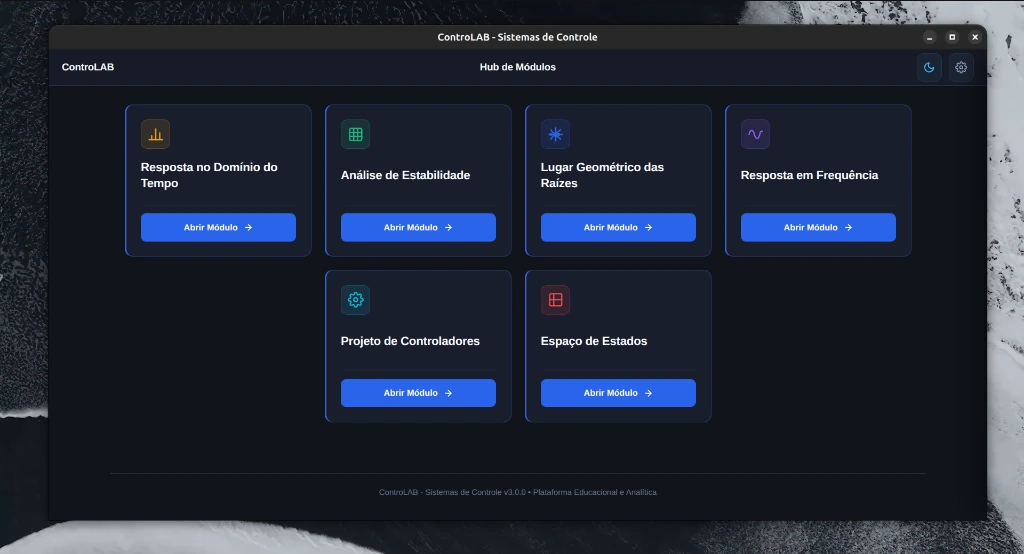
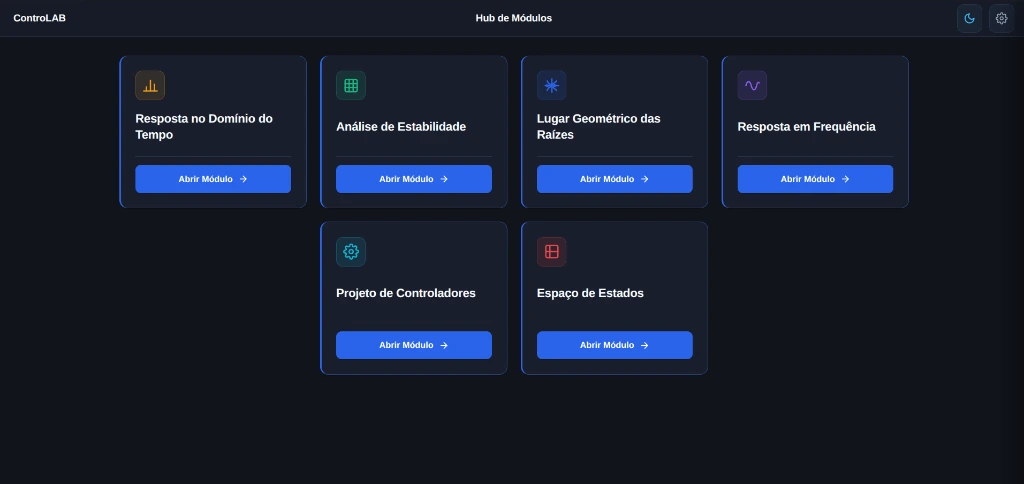
feat(ui): restaurar captura do hub e manter visao geral desktop [skip ci]

diff --git a/public/index.html b/public/index.html
@@ -123,8 +123,11 @@
             <div class="mockup-title">ControLAB — Suíte Integrada de Sistemas de Controle</div>
           </div>
           <div class="mockup-tab-bar" id="mockup-tabs" role="tablist">
-            <button type="button" class="mockup-tab active" data-mockup="hub" role="tab" aria-selected="true">
+            <button type="button" class="mockup-tab active" data-mockup="principal" role="tab" aria-selected="true">
               <span class="mockup-tab-dot"></span>
+              Visão Geral
+            </button>
+            <button type="button" class="mockup-tab" data-mockup="hub" role="tab" aria-selected="false">
               Hub Central
             </button>
             <button type="button" class="mockup-tab" data-mockup="time" role="tab" aria-selected="false">
@@ -145,7 +148,8 @@
           </div>
           <div class="mockup-body">
             <div class="mockup-screen-container">
-              <img id="mockup-img-hub" class="mockup-screen-img active" src="screenshots/hub-modulos.webp" alt="Interface ControLAB - Hub Central de Módulos" width="1024" height="554" fetchpriority="high">
+              <img id="mockup-img-principal" class="mockup-screen-img active" src="screenshots/principal.webp" alt="Interface ControLAB - Visão Geral Desktop" width="1024" height="554" fetchpriority="high">
+              <img id="mockup-img-hub" class="mockup-screen-img" src="screenshots/hub-modulos.webp" alt="Interface ControLAB - Hub Central de Módulos" width="1024" height="484" loading="lazy">
               <img id="mockup-img-time" class="mockup-screen-img" src="screenshots/resposta-tempo.webp" alt="Interface ControLAB - Resposta no Domínio do Tempo" width="1024" height="529" loading="lazy">
               <img id="mockup-img-lgr" class="mockup-screen-img" src="screenshots/lugar-das-raizes.webp" alt="Interface ControLAB - Lugar Geométrico das Raízes (LGR)" width="1024" height="529" loading="lazy">
               <img id="mockup-img-freq" class="mockup-screen-img" src="screenshots/resposta-frequencia.webp" alt="Interface ControLAB - Resposta em Frequência (Bode e Nyquist)" width="1024" height="529" loading="lazy">
@@ -155,7 +159,7 @@
             <div class="mockup-status-bar">
               <div class="mockup-status-info">
                 <span class="mockup-status-dot"></span>
-                <span id="mockup-caption-text" class="mockup-status-text">Hub Central: navegação rápida e unificada entre todos os módulos de controle</span>
+                <span id="mockup-caption-text" class="mockup-status-text">Visão Geral Desktop: ambiente integrado v3.0.0 com os 6 módulos em execução</span>
               </div>
               <span class="mockup-status-hint">Clique nas abas para alternar as telas</span>
             </div>
@@ -457,10 +461,31 @@
       </div>
 
       <div class="interface-gallery-grid">
-        <!-- Card 1: Hub Central -->
+        <!-- Card 1: Visão Geral Desktop (Tela Principal) -->
+        <article class="interface-gallery-card" data-mockup-trigger="principal">
+          <div class="gallery-card-img-wrap">
+            <img src="screenshots/principal.webp" alt="Visão Geral Desktop do ControLAB" loading="lazy" width="1024" height="554">
+            <div class="gallery-card-overlay">
+              <span class="gallery-card-zoom-btn">
+                <svg width="16" height="16" viewBox="0 0 24 24" fill="none" stroke="currentColor" stroke-width="2.2"><circle cx="11" cy="11" r="8"/><line x1="21" y1="21" x2="16.65" y2="16.65"/><line x1="11" y1="8" x2="11" y2="14"/><line x1="8" y1="11" x2="14" y2="11"/></svg>
+                Ampliar Imagem
+              </span>
+            </div>
+          </div>
+          <div class="gallery-card-info">
+            <div class="gallery-card-meta">
+              <span class="gallery-card-badge">Aplicação Completa</span>
+              <span class="gallery-card-res">1024 × 554</span>
+            </div>
+            <h3 class="gallery-card-title">Visão Geral Desktop (v3.0.0)</h3>
+            <p class="gallery-card-desc">Ambiente integrado com janela nativa, identificação de versão e acesso aos 6 módulos de controle.</p>
+          </div>
+        </article>
+
+        <!-- Card 2: Hub Central -->
         <article class="interface-gallery-card" data-mockup-trigger="hub">
           <div class="gallery-card-img-wrap">
-            <img src="screenshots/hub-modulos.webp" alt="Hub Central de Módulos do ControLAB" loading="lazy" width="1024" height="554">
+            <img src="screenshots/hub-modulos.webp" alt="Hub Central de Módulos do ControLAB" loading="lazy" width="1024" height="484">
             <div class="gallery-card-overlay">
               <span class="gallery-card-zoom-btn">
                 <svg width="16" height="16" viewBox="0 0 24 24" fill="none" stroke="currentColor" stroke-width="2.2"><circle cx="11" cy="11" r="8"/><line x1="21" y1="21" x2="16.65" y2="16.65"/><line x1="11" y1="8" x2="11" y2="14"/><line x1="8" y1="11" x2="14" y2="11"/></svg>
@@ -471,7 +496,7 @@
           <div class="gallery-card-info">
             <div class="gallery-card-meta">
               <span class="gallery-card-badge">Página Inicial</span>
-              <span class="gallery-card-res">1024 × 554</span>
+              <span class="gallery-card-res">1024 × 484</span>
             </div>
             <h3 class="gallery-card-title">Hub Central Integrado</h3>
             <p class="gallery-card-desc">Grid dinâmico com acesso direto a todos os 6 módulos analíticos de sistemas de controle.</p>
@@ -1190,6 +1215,7 @@
       // Alternância interativa de abas do Mockup da Aplicação
       const mockupTabs = document.querySelectorAll('.mockup-tab[data-mockup]');
       const mockupScreens = {
+        principal: document.getElementById('mockup-img-principal'),
         hub: document.getElementById('mockup-img-hub'),
         time: document.getElementById('mockup-img-time'),
         lgr: document.getElementById('mockup-img-lgr'),
@@ -1198,6 +1224,7 @@
         states: document.getElementById('mockup-img-states')
       };
       const mockupCaptions = {
+        principal: 'Visão Geral Desktop: ambiente integrado v3.0.0 com os 6 módulos em execução',
         hub: 'Hub Central: navegação rápida e unificada entre todos os módulos de controle',
         time: 'Resposta no Domínio do Tempo: transitório, sobressinal (%OS) e tempos característicos',
         lgr: 'Lugar Geométrico das Raízes (LGR): traçado analítico de Evans e memorial passo a passo',
@@ -1233,6 +1260,13 @@
 
       // Base de dados dos módulos para exibição ampliada no Lightbox
       const galleryData = [
+        {
+          key: 'principal',
+          title: 'Visão Geral Desktop (v3.0.0)',
+          badge: 'Aplicação Completa',
+          src: 'screenshots/principal.webp',
+          desc: 'Ambiente integrado com janela nativa, identificação de versão e acesso aos 6 módulos de controle.'
+        },
         {
           key: 'hub',
           title: 'Hub Central Integrado',

diff --git a/README.md b/README.md
@@ -11,11 +11,11 @@
 ---
 
 <p align="center">
-  <a href="docs/screenshots/hub-modulos.webp">
-    <img src="docs/screenshots/hub-modulos.webp" alt="Hub Central de Módulos do ControLAB" width="100%">
+  <a href="docs/screenshots/principal.webp">
+    <img src="docs/screenshots/principal.webp" alt="Visão Geral da Suíte ControLAB v3.0.0" width="100%">
   </a>
   <br>
-  <em>Hub Central unificando os domínios clássicos e modernos de sistemas de controle. Clique em qualquer imagem para abrir em alta resolução.</em>
+  <em>Visão Geral da Suíte ControLAB v3.0.0 em execução no desktop. Clique em qualquer imagem para abrir em alta resolução.</em>
 </p>
 
 ---
@@ -43,8 +43,17 @@ A aplicação organiza os domínios clássicos e modernos de controle a partir d
 
 O ControLAB oferece uma interface escura, responsiva e 100% offline, projetada para estudo, simulação e projeto de sistemas dinâmicos. Veja abaixo as capturas de tela em resolução completa da tela principal e de cada módulo (clique em qualquer imagem para abrir em tamanho original):
 
-### Tela Principal: Hub Central Integrado (v3.0.0)
-Visão inicial unificada com acesso direto a todos os 6 módulos analíticos da suíte de sistemas de controle.
+### Tela Principal: Visão Geral Desktop (v3.0.0)
+Visão completa da aplicação em execução com janela nativa, identificação de versão e acesso rápido a todos os módulos.
+
+<p align="center">
+  <a href="docs/screenshots/principal.webp">
+    <img src="docs/screenshots/principal.webp" alt="Visão Geral Desktop do ControLAB" width="100%">
+  </a>
+</p>
+
+### Hub Central de Módulos (Página Inicial)
+Grid de acesso rápido aos domínios analíticos e de projeto de sistemas de controle.
 
 <p align="center">
   <a href="docs/screenshots/hub-modulos.webp">
